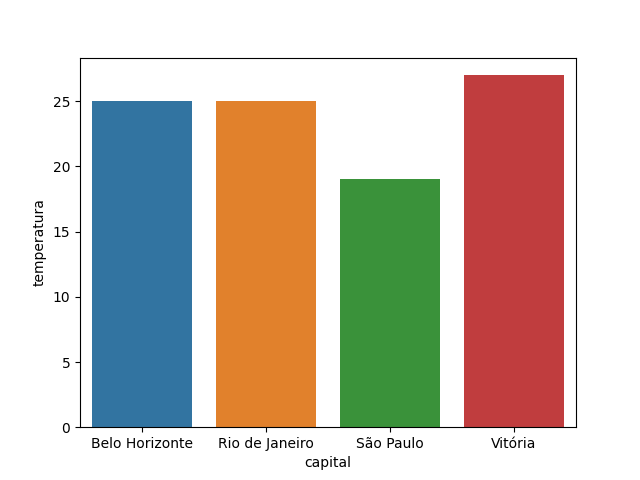
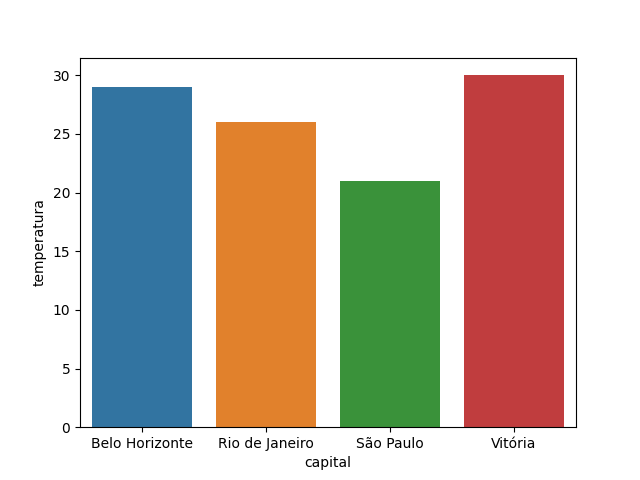
atualização Procfile e execução das funçoes

diff --git a/templates/index.html b/templates/index.html
@@ -61,28 +61,28 @@
                 <div class="posicao_div">
                     <h2>Capital: São Paulo</h2>
                     <h3>Código: SBSP</h3>
-                    <p>Atualização: 04/10/2021 09:00:00</p>
-                    <p>Pressão: 1017</p>
-                    <p>Temperatura: 20</p>
+                    <p>Atualização: 04/10/2021 10:00:00</p>
+                    <p>Pressão: 1016</p>
+                    <p>Temperatura: 21</p>
                     <p>Tempo: ps</p>
                     <p>Descrição do Tempo: Predomínio de Sol</p>
                     <p>umidade: 83</p>
-                    <p>vento_dir: 70</p>
-                    <p>vento_int: 11</p>
-                    <p class="last_p">Intensidade: >10000</p>
+                    <p>vento_dir: 100</p>
+                    <p>vento_int: 14</p>
+                    <p class="last_p">Intensidade: 8000</p>
                 </div>
             
                 <div class="posicao_div">
                     <h2>Capital: Vitória</h2>
                     <h3>Código: SBVT</h3>
-                    <p>Atualização: 04/10/2021 09:00:00</p>
-                    <p>Pressão: 1017</p>
-                    <p>Temperatura: 28</p>
+                    <p>Atualização: 04/10/2021 10:00:00</p>
+                    <p>Pressão: 1016</p>
+                    <p>Temperatura: 30</p>
                     <p>Tempo: ps</p>
                     <p>Descrição do Tempo: Predomínio de Sol</p>
-                    <p>umidade: 66</p>
-                    <p>vento_dir: 30</p>
-                    <p>vento_int: 18</p>
+                    <p>umidade: 59</p>
+                    <p>vento_dir: 10</p>
+                    <p>vento_int: 29</p>
                     <p class="last_p">Intensidade: >10000</p>
                 </div>
             
@@ -359,13 +359,13 @@
                 <div class="posicao_div">
                     <h2>Capital: Salvador</h2>
                     <h3>Código: SBSV</h3>
-                    <p>Atualização: 04/10/2021 09:00:00</p>
-                    <p>Pressão: 1017</p>
+                    <p>Atualização: 04/10/2021 10:00:00</p>
+                    <p>Pressão: 1016</p>
                     <p>Temperatura: 28</p>
                     <p>Tempo: ps</p>
                     <p>Descrição do Tempo: Predomínio de Sol</p>
-                    <p>umidade: 100</p>
-                    <p>vento_dir: 90</p>
+                    <p>umidade: 62</p>
+                    <p>vento_dir: 80</p>
                     <p>vento_int: 36</p>
                     <p class="last_p">Intensidade: >10000</p>
                 </div>
@@ -387,13 +387,13 @@
                 <div class="posicao_div">
                     <h2>Capital: Teresina</h2>
                     <h3>Código: SBTE</h3>
-                    <p>Atualização: 04/10/2021 09:00:00</p>
+                    <p>Atualização: 04/10/2021 10:00:00</p>
                     <p>Pressão: 1012</p>
-                    <p>Temperatura: 30</p>
+                    <p>Temperatura: 31</p>
                     <p>Tempo: ps</p>
                     <p>Descrição do Tempo: Predomínio de Sol</p>
-                    <p>umidade: 59</p>
-                    <p>vento_dir: 150</p>
+                    <p>umidade: 52</p>
+                    <p>vento_dir: 160</p>
                     <p>vento_int: 25</p>
                     <p class="last_p">Intensidade: >10000</p>
                 </div>

diff --git a/app.py b/app.py
@@ -4,20 +4,21 @@ import APP_Previsao_Tempo as AppPT
 
 app = Flask(__name__)
 
-AppPT.Dados_Capitais()
-run_pag.Gera_Index()
-AppPT.Regioes()
+
 
 @app.route("/")
 
 def index():
+    AppPT.Dados_Capitais()
+    run_pag.Gera_Index()
     return render_template('index.html')
 
 @app.route('/graficos')
 def graficos():
+    AppPT.Regioes()
     return render_template('secao_graficos.html')
 
-app.run(debug=True)
+app.run(host='0.0.0.0', port=5000)
 
 
 

diff --git a/APP_Previsao_Tempo.py b/APP_Previsao_Tempo.py
@@ -165,7 +165,7 @@ def query_cria_grafico(regiao):
     # print(lista)
     colunas = pd.DataFrame(lista, columns=['capital', 'temperatura', 'umidade']) # ESSE METODO COLOCA NOMES NAS COLUNAS
     plot = sns.barplot(data=colunas, x='capital', y='temperatura')
-    plot.get_figure().savefig(f"templates/graficos/temperatura_{regiao}.png")
+    plot.get_figure().savefig(f"static/graficos/temperatura_{regiao}.png")
     plt.close()
     return True
 
